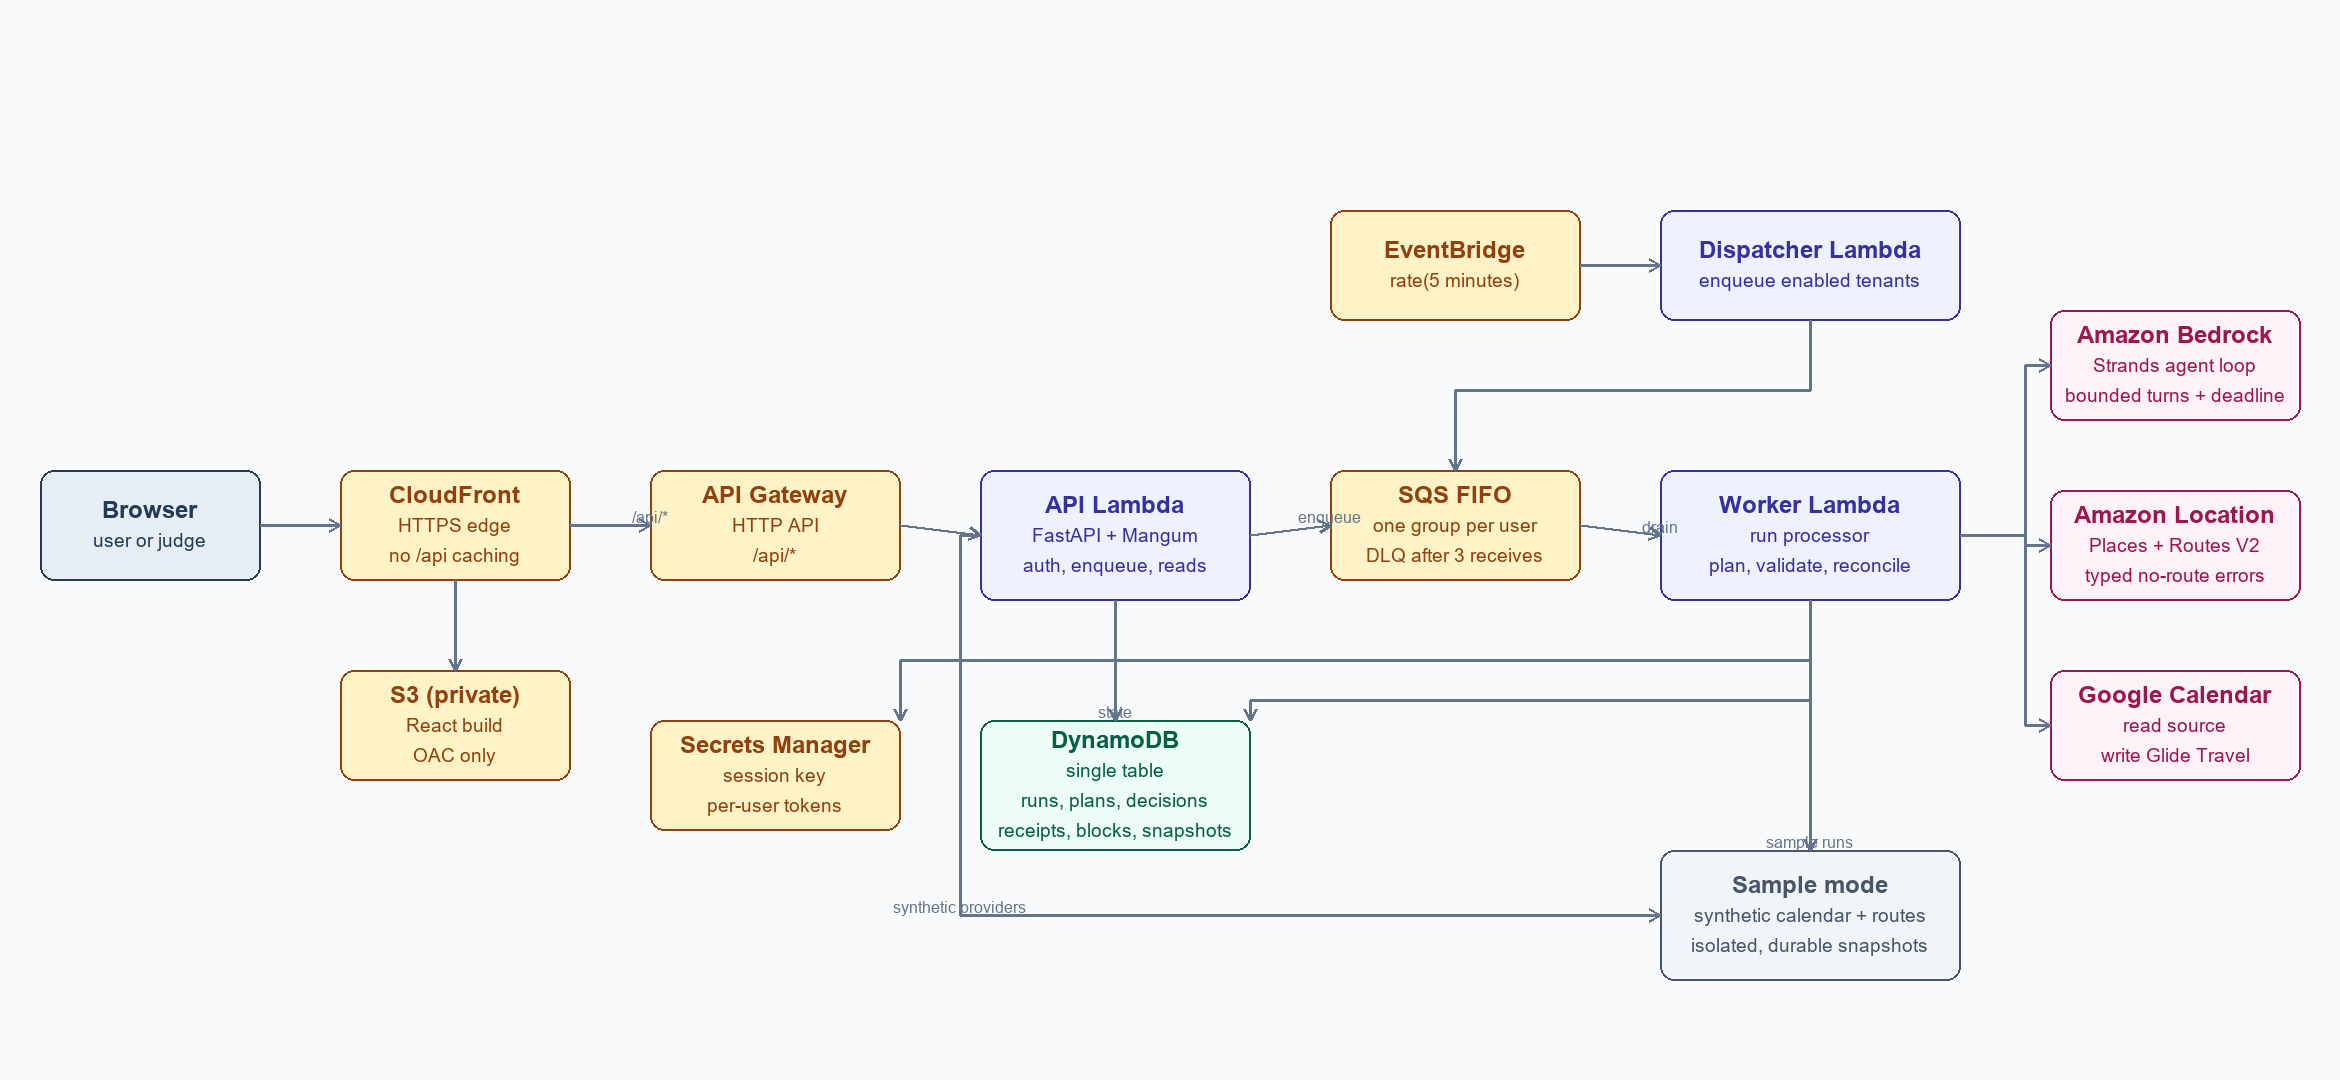
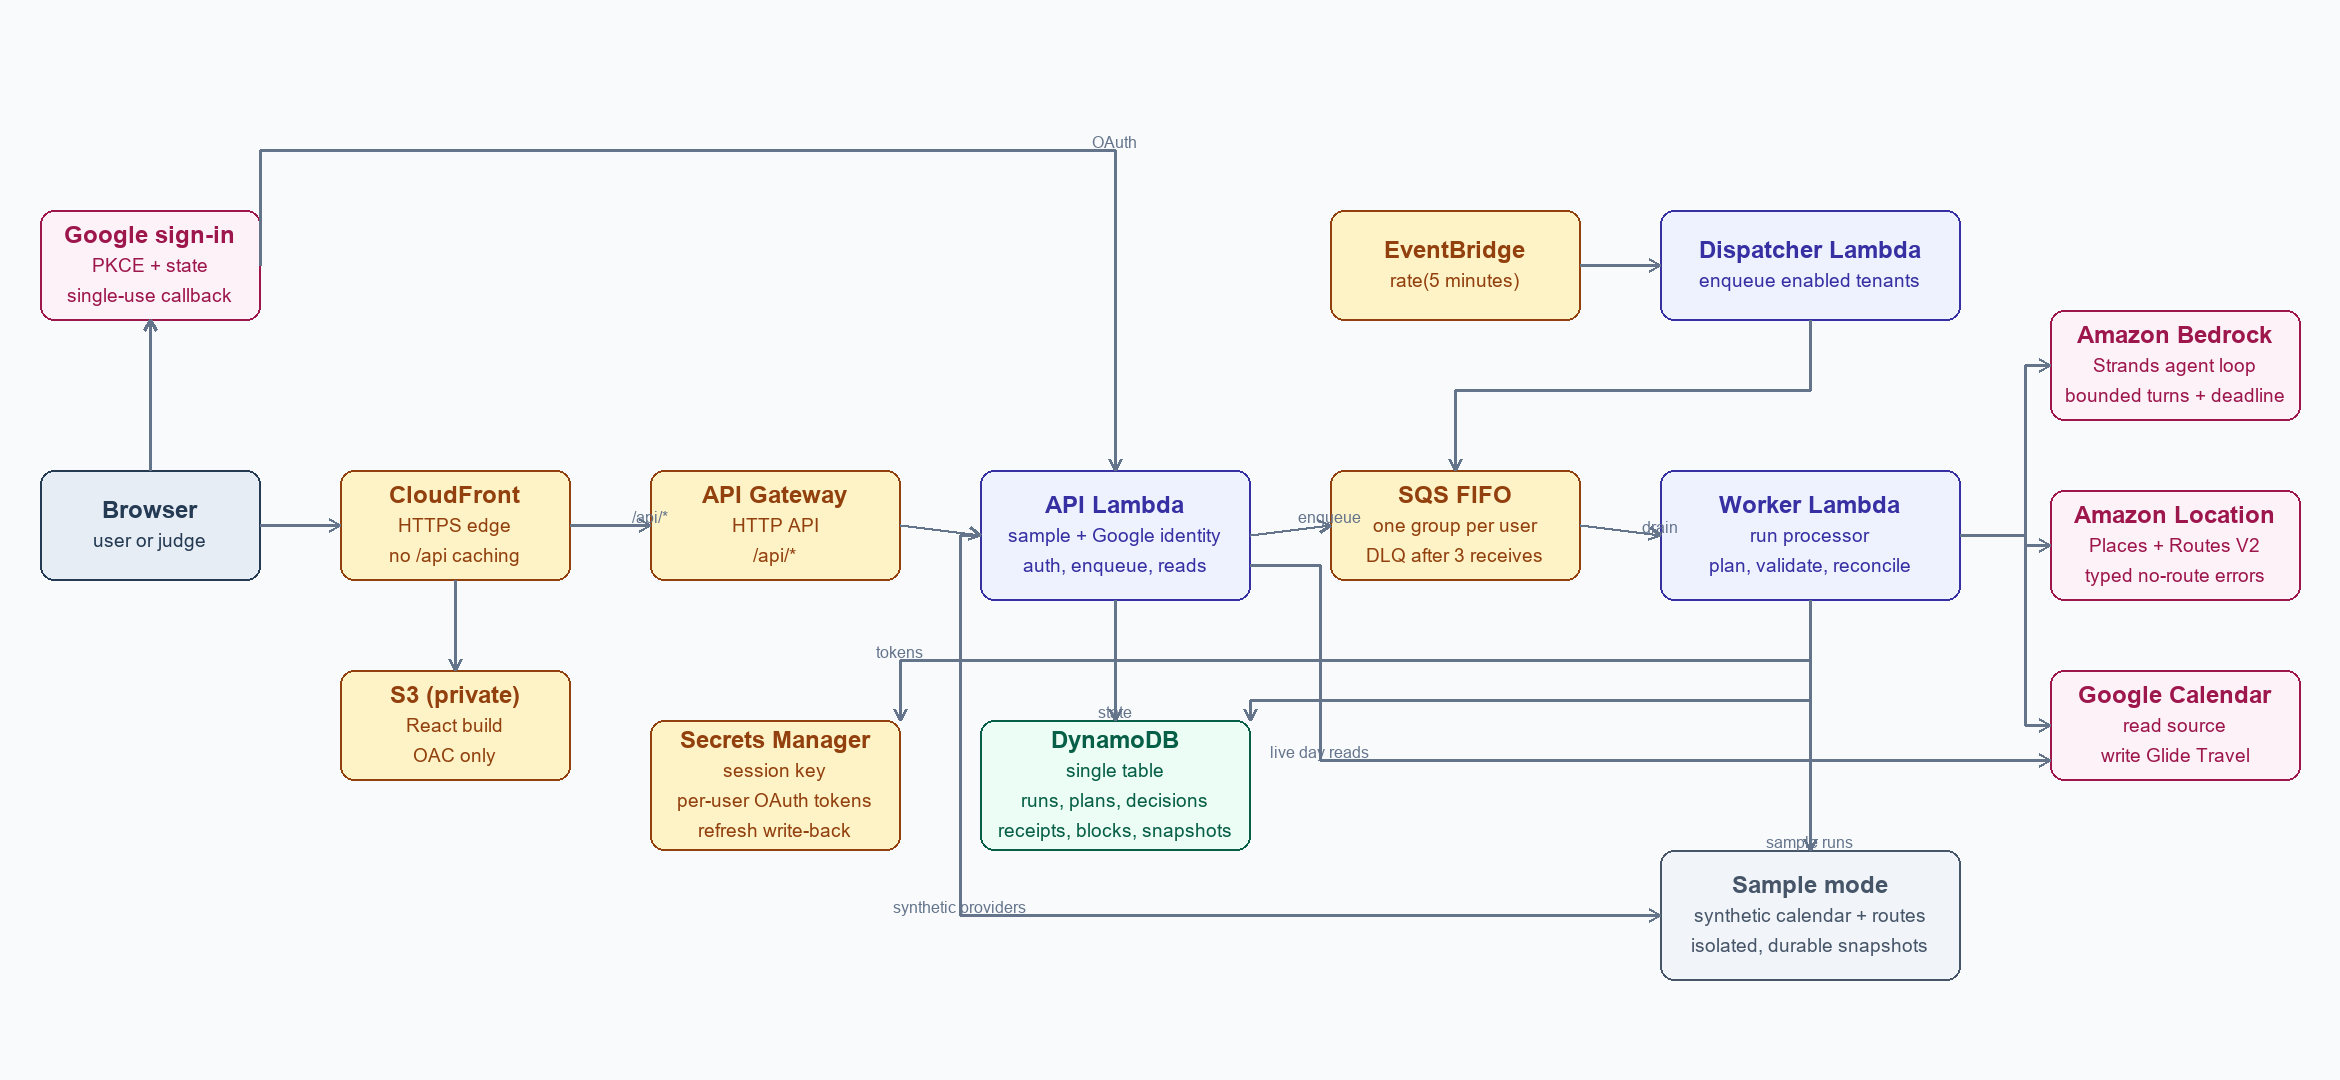
Finish offline submission assets: diagram, story, runbook, CI docs
- Update the architecture diagram and prose for the wired Google auth flow
  (browser-bound PKCE callback, per-user token refresh in Secrets Manager,
  live day reads from Google Calendar).
- Replace the Devpost story placeholders with measured offline results and
  the real reproduced-then-fixed defects, and remove unsupported live/video
  claims.
- Document the connected-Google judge path in testing instructions and the
  two-venue smoke environment in .env.example and setup.md.

diff --git a/scripts/export_architecture.py b/scripts/export_architecture.py
@@ -57,6 +57,16 @@ class Edge:
 BOXES = [
     Box("browser", 40, 470, 220, 110, "Browser", ("user or judge",), "web"),
     Box(
+        "googleoauth",
+        40,
+        210,
+        220,
+        110,
+        "Google sign-in",
+        ("PKCE + state", "single-use callback"),
+        "provider",
+    ),
+    Box(
         "cloudfront",
         340,
         470,
@@ -75,7 +85,7 @@ BOXES = [
         270,
         130,
         "API Lambda",
-        ("FastAPI + Mangum", "auth, enqueue, reads"),
+        ("sample + Google identity", "auth, enqueue, reads"),
         "compute",
     ),
     Box(
@@ -133,9 +143,9 @@ BOXES = [
         650,
         720,
         250,
-        110,
+        130,
         "Secrets Manager",
-        ("session key", "per-user tokens"),
+        ("session key", "per-user OAuth tokens", "refresh write-back"),
         "aws",
     ),
     Box(
@@ -182,6 +192,13 @@ BOXES = [
 
 EDGES = [
     Edge("browser", "cloudfront", path=((260, 525), (340, 525))),
+    Edge("browser", "googleoauth", path=((150, 470), (150, 320))),
+    Edge(
+        "googleoauth",
+        "apilambda",
+        "OAuth",
+        ((260, 265), (260, 150), (1115, 150), (1115, 470)),
+    ),
     Edge("cloudfront", "s3", path=((455, 580), (455, 670))),
     Edge("cloudfront", "httpapi", "/api/*", ((570, 525), (650, 525))),
     Edge("httpapi", "apilambda", path=((900, 525), (980, 535))),
@@ -190,7 +207,14 @@ EDGES = [
     Edge(
         "apilambda",
         "secrets",
+        "tokens",
         path=((1115, 600), (1115, 660), (900, 660), (900, 720)),
+    ),
+    Edge(
+        "apilambda",
+        "google",
+        "live day reads",
+        ((1250, 565), (1320, 565), (1320, 760), (2050, 760)),
     ),
     Edge("eventbridge", "dispatcher", path=((1580, 265), (1660, 265))),
     Edge(

diff --git a/submission/devpost-story.md b/submission/devpost-story.md
@@ -27,7 +27,7 @@ pause automation and stay in control of their original appointments.
 
 The first version covers driving and one source calendar. A hosted sample
 lets judges explore the workflow with fictional appointments and simulated
-routes; the video demonstrates the real Google and AWS integrations.
+routes; the entry video covers the real Google and AWS integrations.
 
 ## How we built it
 
@@ -44,21 +44,74 @@ user-edited or deleted blocks are respected rather than overwritten.
 
 ## Accomplishments
 
-[Replace with measured results: the live workflow, scenario outcomes,
-retry/no-duplicate checks, and usability observations. Include sample sizes;
-do not invent benefit claims.]
+Offline-verified as of 9 September 2026 (real-provider measurements are
+recorded only after the account setup below is complete):
+
+- The browser workflow passes four end-to-end judge-path checks: sample day,
+  conflict decision with a quantified ten-minute shortfall, resolve, recheck
+  with two updated blocks and no duplicates, and reset. A repeat run records
+  an `unchanged` receipt instead of a second calendar event.
+- 138 automated tests pass alongside lint, typecheck, and a production
+  build. The recovery matrix covers a worker crash after the first provider
+  write, idempotent reruns, cross-tenant run access returning 404, and a
+  padding change updating the block on recheck.
+- Google sign-in is wired to the workflow end to end: PKCE plus a
+  browser-bound, single-use state, stored and refreshed tokens, and one API
+  surface serving both signed-in users and isolated sample sessions. Tests
+  prove a second user cannot read or change the first user's settings, runs,
+  decisions, or activity.
+- Calendar writes are conditional (`If-Match`), use deterministic
+  revision-scoped event ids with 409 recovery, and never edit source
+  appointments. User-edited blocks are preserved on every removal path, and
+  a manually deleted block stays deleted until its source revision changes.
+- Scheduled background processing works across instances: the dispatcher
+  writes a queued run row before enqueueing, cold workers restore durable
+  sample sessions, expired tenants stop generating work, and a settings
+  change during a run discards the stale result instead of committing it.
+
+Usability observations from two fresh-browser passes through the sample
+flow (unfamiliar testers) belong here only once re-run against the deployed
+release.
 
 ## Challenges we ran into
 
-[Write the observed problems, the changes made, and the evidence that fixed
-them. Candidates, only if they actually occurred: OAuth test-token expiry,
-recurring-instance identity, ambiguous venues, estimates at the intended
-time, duplicate prevention after timeouts.]
+An implementation review reproduced fourteen defects before any live
+account was used, each now fixed with a regression test:
+
+- The installed Google client's `execute()` does not accept a headers
+  argument, so the original conditional-write calls failed before reaching
+  Google. `If-Match` is now set on the request headers before `execute()`,
+  checked against the official Calendar guide.
+- The OAuth transaction lost its PKCE verifier and its initiating browser,
+  and calendar discovery adopted a calendar by summary rather than the saved
+  app-created id. Transactions are now encrypted, path-scoped, single-use
+  cookies, and the saved calendar id is reused.
+- A worker instance could not rebuild a sample session, discard scheduled
+  results, or ignore newer persisted state; the deployed API also
+  initialized local SQLite at import. Session state is now restored from
+  DynamoDB on every access, scheduled jobs persist a run row first, and
+  production imports build no local database.
+- Manually edited blocks could be deleted and manually deleted blocks could
+  be recreated on the next run. Ownership checks, manual-override guards,
+  and revision-scoped skips now make those choices durable.
+
+Ambiguous venues, OAuth test-token expiry, and timeout retries remain to be
+measured against real providers and will be added here with their outcomes.
 
 ## What we learned
 
-[Use real observations. Assess how much reliable behavior depended on the
-tool boundaries and persistent state.]
+Provider SDK contracts cannot be proven by permissive fakes: a test that
+accepts unsupported keyword arguments passed while the real library would
+have failed. The adapter tests now exercise the actual request-object
+behavior and the documented error codes.
+
+Idempotency is a provider-level problem, not just a database one. Google
+keeps the ids of deleted events reserved, so deterministic ids become a
+tombstone; scoping those ids to the source revision is what allows a
+deliberate reopen. Much of the reliable behavior came from keeping
+deterministic code in control of identity, arithmetic, and writes, and from
+re-reading durable state at every job boundary instead of trusting warm
+caches.
 
 ## What's next for Glide
 

diff --git a/docs/architecture.md b/docs/architecture.md
@@ -10,10 +10,13 @@ Editable diagram: [architecture.svg](architecture.svg) · export:
    CloudFront. `/api/*` routes to API Gateway with caching disabled and
    cookies, query strings, and the `X-Glide-Session` header forwarded.
 2. The API Lambda runs the same FastAPI application as local development
-   through Mangum. It authenticates Google sessions, creates/edits sample
-   sessions, persists their snapshots, reads the day from DynamoDB, and
-   enqueues checks on a FIFO queue (one message group per user). It runs no
-   in-process worker.
+   through Mangum. Google sign-in exchanges a PKCE/state-bound authorization
+   code and stores each user's tokens in Secrets Manager (refreshed tokens
+   are written back); the encrypted session cookie identifies a live user,
+   while the `X-Glide-Session` header identifies an isolated sample tenant.
+   The same routes serve both identities and the live day is read straight
+   from Google Calendar. Checks are enqueued on a FIFO queue (one message
+   group per user); the API runs no in-process worker.
 3. Every five minutes an EventBridge rule runs the dispatcher, which scans
    persisted settings and enqueues one check per enabled tenant.
 4. The worker Lambda drains the queue one message at a time. For sample

diff --git a/submission/testing-instructions.md b/submission/testing-instructions.md
@@ -20,6 +20,23 @@
 6. Try **Skip this journey** after a fresh reset, **Pause automation**, and
    the **Settings** arrival-buffer control.
 
+## Option A2: connected Google account (owner test user only)
+
+Requires the Google OAuth test account that the entry owner configured; no
+judge account is needed.
+
+1. Open `[LIVE_DEMO_URL]` and choose **Connect Google Calendar**. The OAuth
+   flow returns to the same day view labeled **Your calendar Â· real routes**.
+2. In **Settings**, confirm a starting address through the real place search,
+   the time zone, the arrival buffer, and the earliest departure time.
+3. Choose **Resume automation**, then **Recheck now**. Travel blocks appear
+   only in the separate **Glide Travel** calendar; the primary calendar is
+   read-only to the app.
+4. Move an appointment in Google Calendar and **Recheck now**: the block
+   updates or a decision appears instead of a guess.
+5. **Pause automation**, then **Disconnect**. Glide removes its own blocks,
+   revokes the Google grant, and returns to the sample-only landing page.
+
 ## Option B: local sample
 
 Requirements: Python 3.12+, `uv`, Node 20+.

diff --git a/docs/setup.md b/docs/setup.md
@@ -121,7 +121,7 @@ The server also uses:
 - `GLIDE_SECURE_COOKIES=true` only behind HTTPS.
 - `GLIDE_FRONTEND_ORIGIN=http://localhost:5173` for the callback redirect.
 
-Planned scopes:
+Requested scopes:
 
 - `openid`
 - `email`
@@ -133,6 +133,12 @@ app-created **Glide Travel** calendar. Do not grant full calendar control.
 Testing-mode refresh tokens can expire after seven days, so reconnect behavior
 is part of the release rather than assuming one build-time connection survives
 judging.
+
+Once connected, the signed-in day view reads the primary calendar directly,
+the place search resolves real starting addresses, and every queued check runs
+through the same local worker using real Google and AWS providers. Refresh
+tokens are stored per user and written back after a refresh, so the grant
+survives access-token expiry without another OAuth prompt.
 
 ## 4. AWS
 
